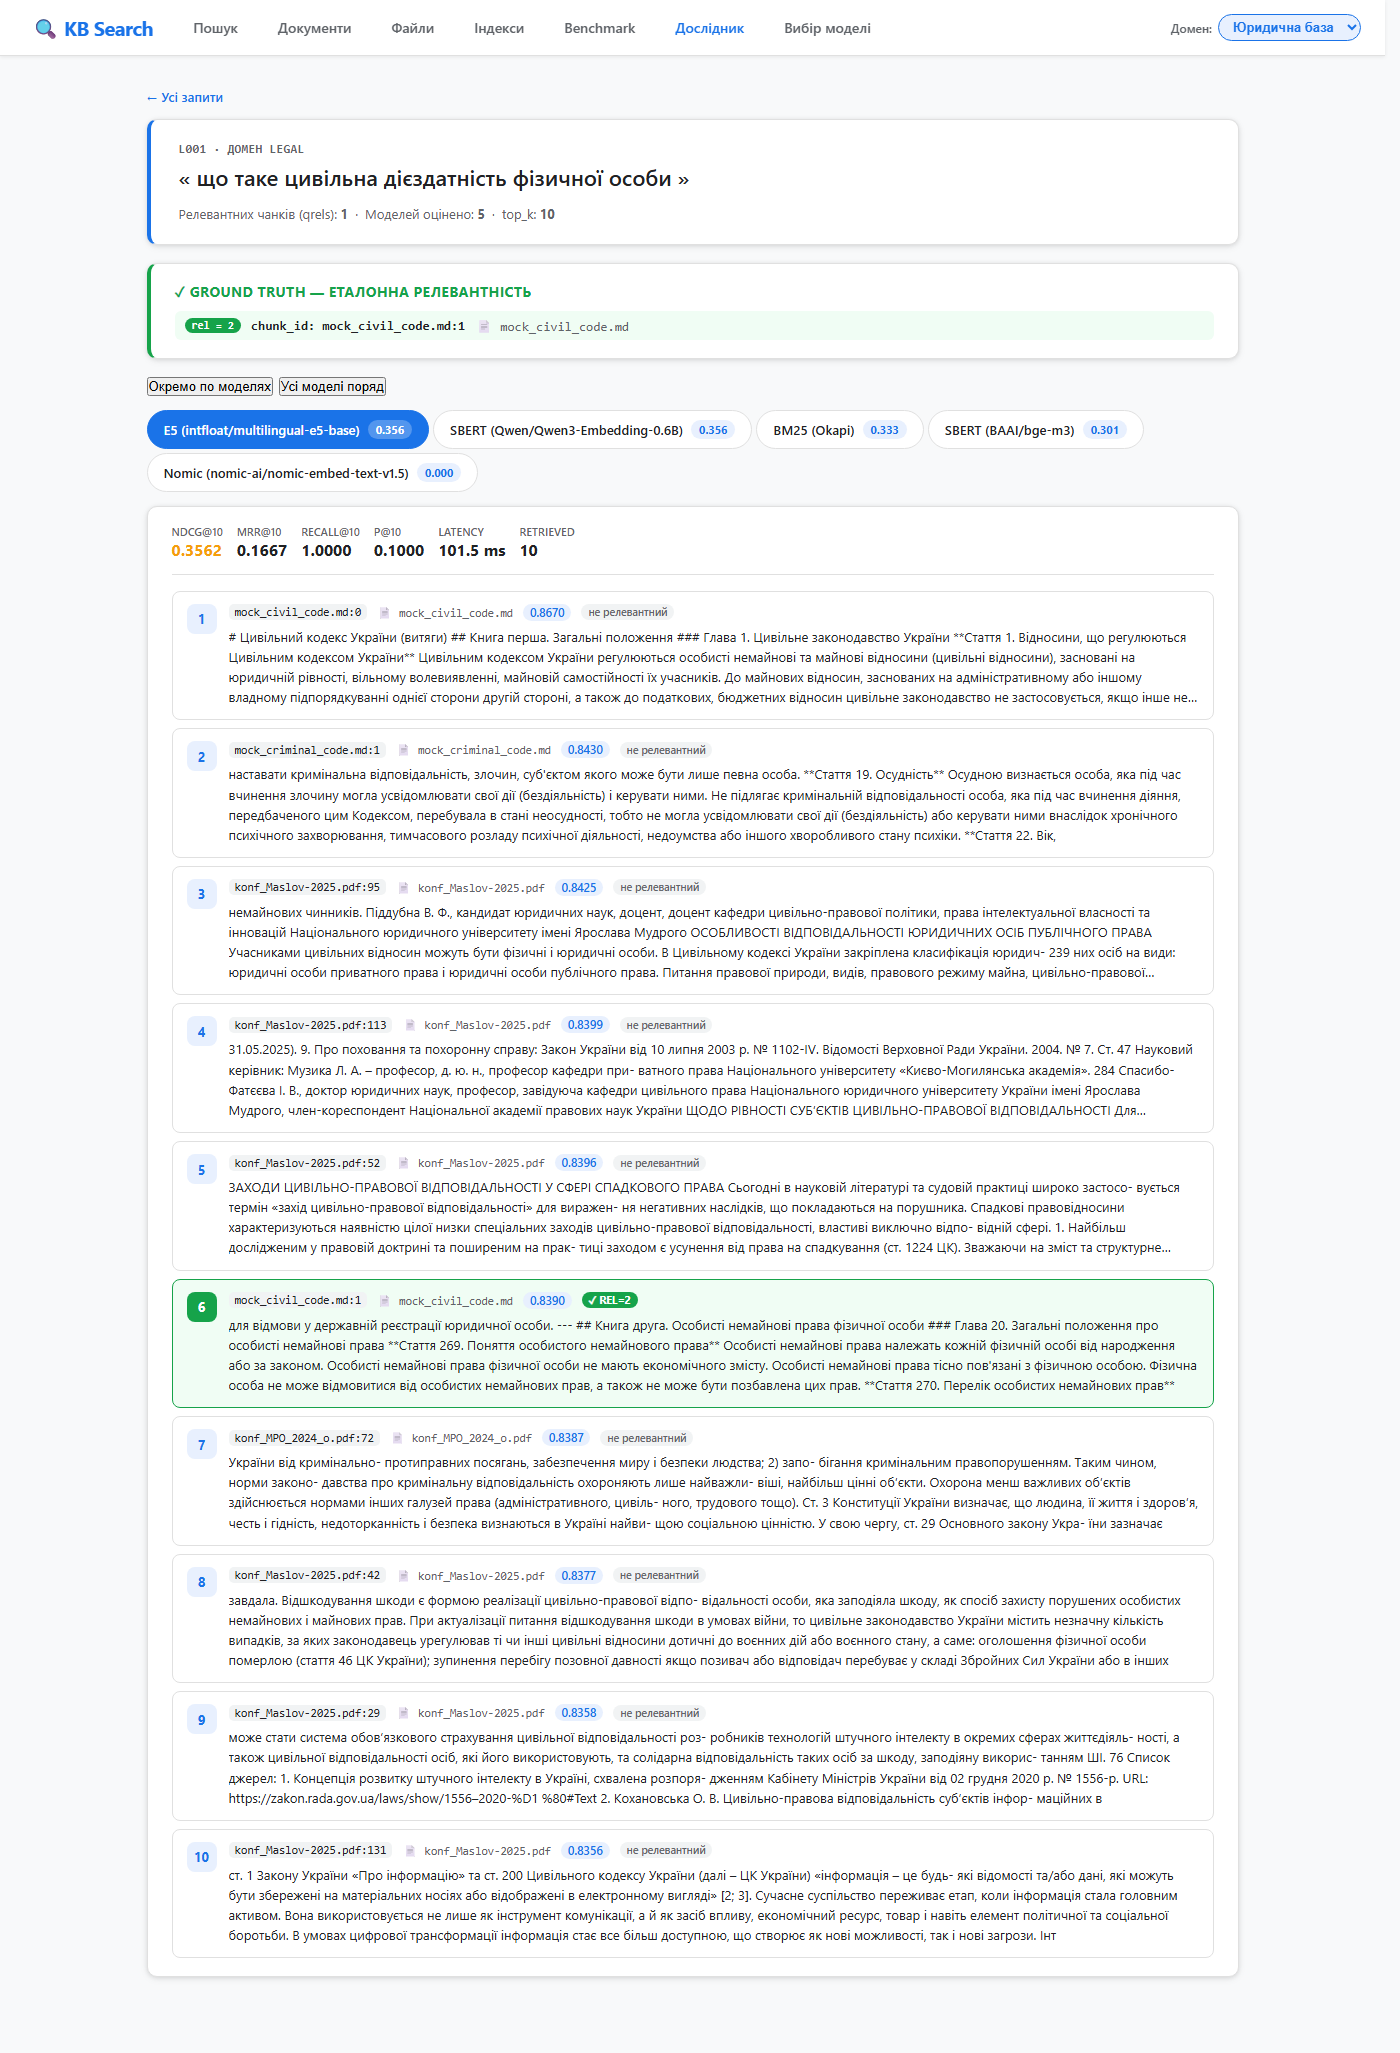
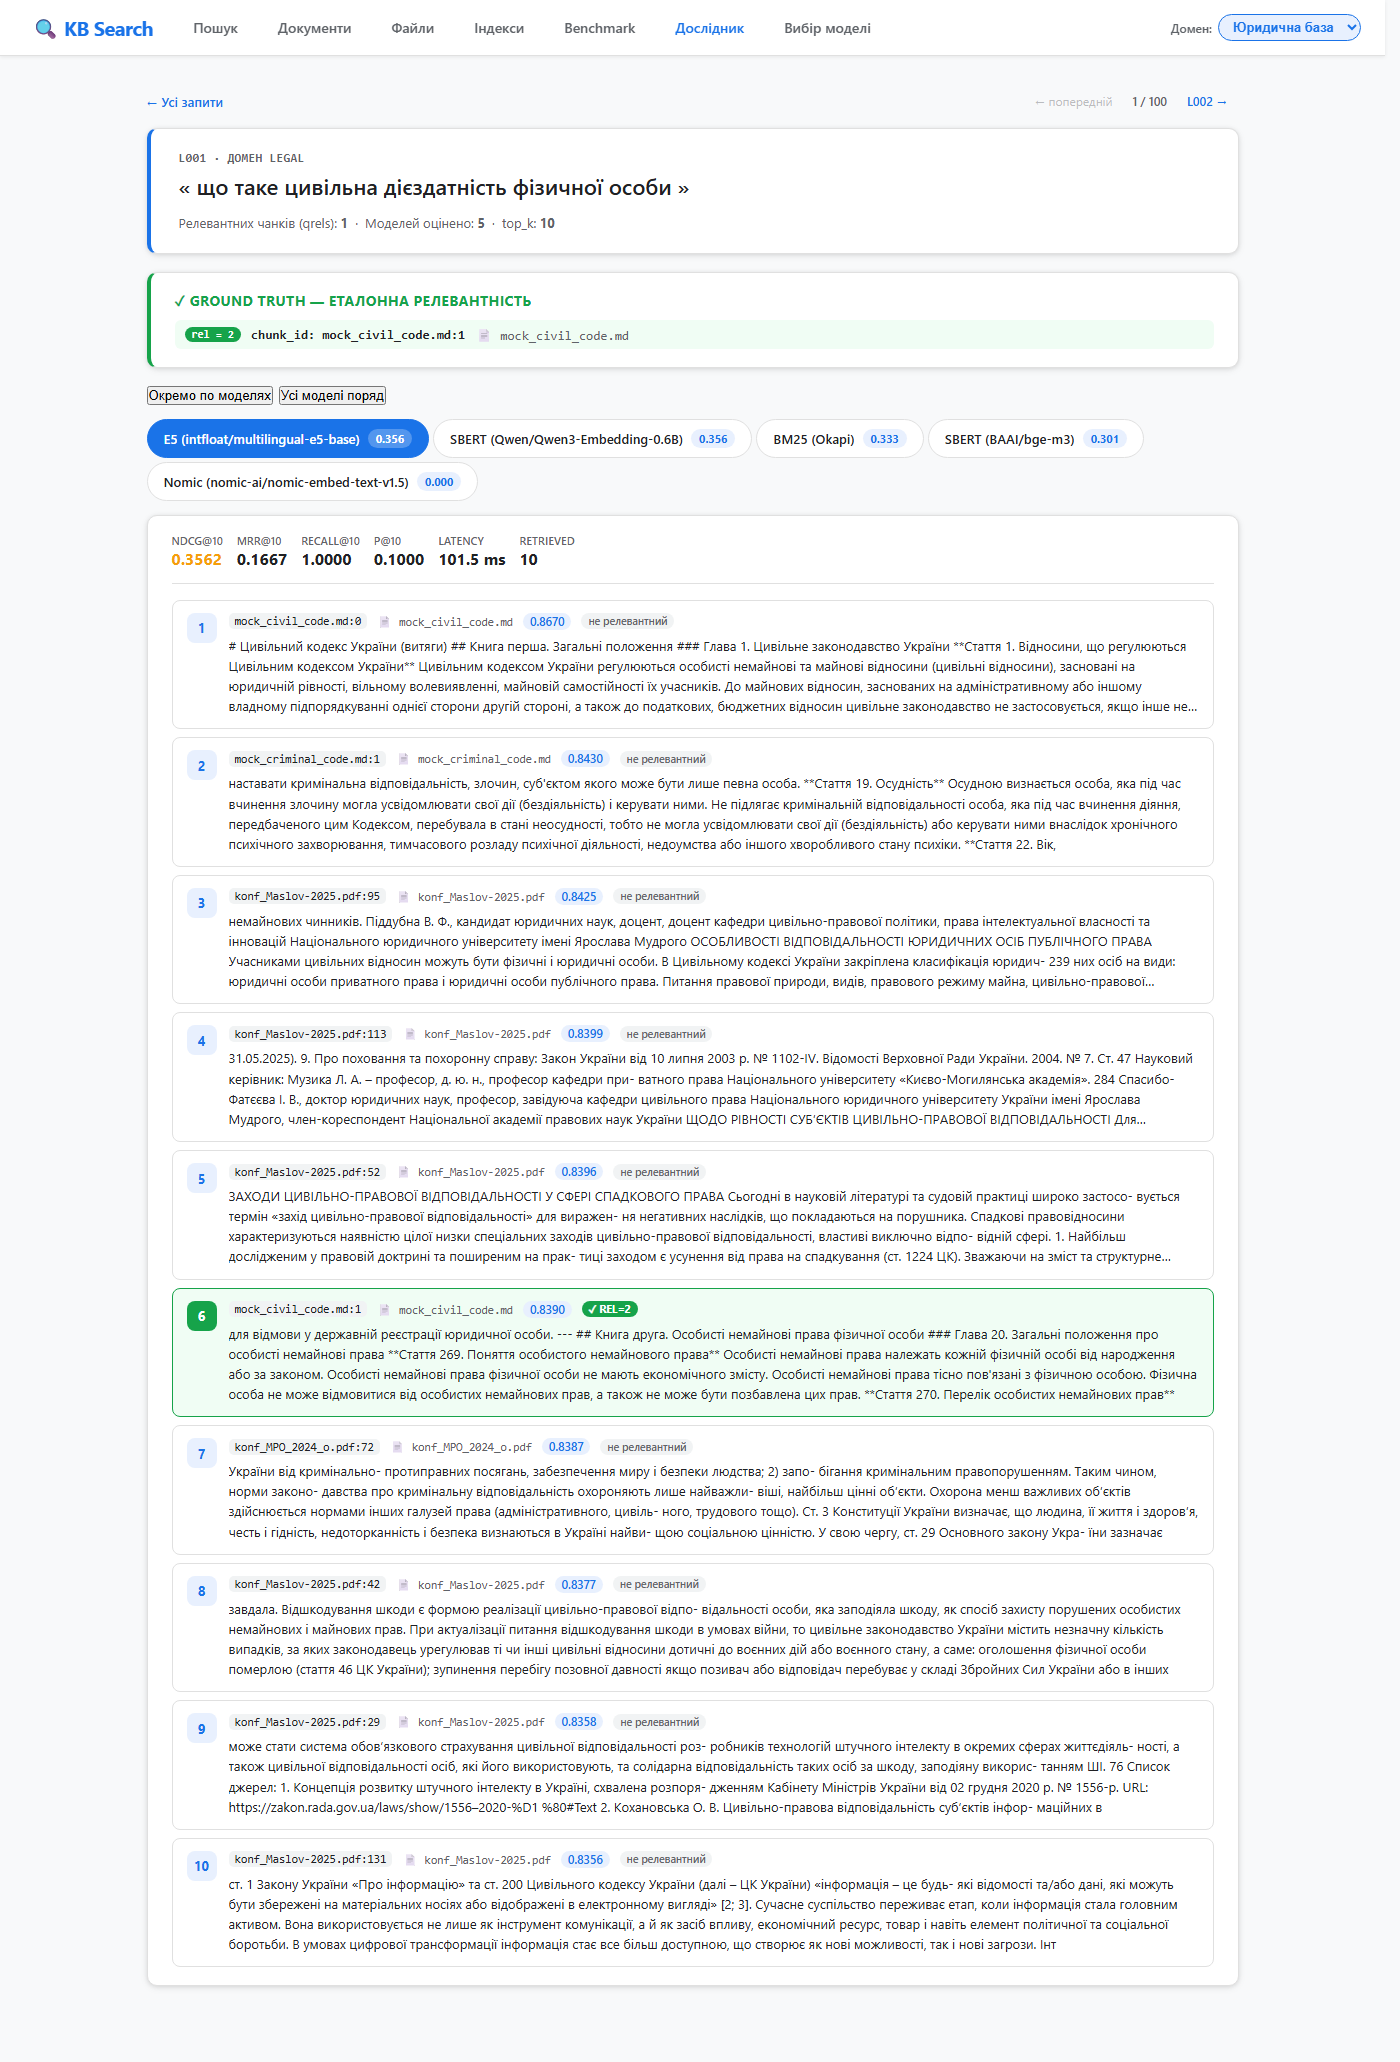
Add prev/next navigation between queries on detail page
- Detail page now shows position (e.g., "5 / 100") and prev/next pills
  for fast iteration during demos.
- Updated screenshots accordingly.

Changed region(s): [[0.0921, 0.0312, 0.86, 0.9352], [0.6757, 0.187, 0.7986, 0.2182], [0.5529, 0.187, 0.645, 0.2182]]

diff --git a/src/templates/benchmark_explorer_query.html b/src/templates/benchmark_explorer_query.html
@@ -283,8 +283,25 @@
 {% endblock %}
 
 {% block content %}
-<div class="breadcrumb">
+<div class="breadcrumb" style="display:flex;align-items:center;justify-content:space-between;gap:12px;">
   <a href="/benchmark/explorer?domain={{ current_domain }}">← Усі запити</a>
+  <div style="display:flex;align-items:center;gap:8px;">
+    {% if prev_id %}
+      <a href="/benchmark/explorer/{{ prev_id }}?domain={{ current_domain }}"
+         class="pill" style="padding:5px 12px;font-size:12px;">← {{ prev_id }}</a>
+    {% else %}
+      <span class="pill" style="padding:5px 12px;font-size:12px;opacity:.4;cursor:not-allowed;">← попередній</span>
+    {% endif %}
+    <span style="font-size:12px;color:var(--text-muted);font-weight:600;">
+      {{ position }} / {{ total_queries }}
+    </span>
+    {% if next_id %}
+      <a href="/benchmark/explorer/{{ next_id }}?domain={{ current_domain }}"
+         class="pill" style="padding:5px 12px;font-size:12px;">{{ next_id }} →</a>
+    {% else %}
+      <span class="pill" style="padding:5px 12px;font-size:12px;opacity:.4;cursor:not-allowed;">наступний →</span>
+    {% endif %}
+  </div>
 </div>
 
 <div class="query-header">

diff --git a/src/app.py b/src/app.py
@@ -1093,15 +1093,18 @@ def benchmark_explorer_query(query_id: str):
     if not explorer:
         return "Benchmark data not found for domain '" + domain + "'", 404
 
-    qdata = next((q for q in explorer["queries"] if q["query_id"] == query_id), None)
-    if not qdata:
+    queries = explorer["queries"]
+    idx = next((i for i, q in enumerate(queries) if q["query_id"] == query_id), -1)
+    if idx == -1:
         return f"Query '{query_id}' not found", 404
+    qdata = queries[idx]
+    prev_id = queries[idx - 1]["query_id"] if idx > 0 else None
+    next_id = queries[idx + 1]["query_id"] if idx + 1 < len(queries) else None
 
     # Compute hit set for highlighting in retrieved_chunks
     qrel_chunk_ids = {t.get("chunk_id", "") for t in qdata["qrel_targets"] if t.get("chunk_id")}
     qrel_doc_ids = {t.get("doc_id", "") for t in qdata["qrel_targets"] if t.get("doc_id") and not t.get("chunk_id")}
 
-    # Sort models for consistent display
     return render_template(
         "benchmark_explorer_query.html",
         explorer=explorer,
@@ -1110,6 +1113,10 @@ def benchmark_explorer_query(query_id: str):
         qrel_doc_ids=qrel_doc_ids,
         current_domain=domain,
         domains=DOMAINS_CONFIG,
+        prev_id=prev_id,
+        next_id=next_id,
+        position=idx + 1,
+        total_queries=len(queries),
     )
 
 
